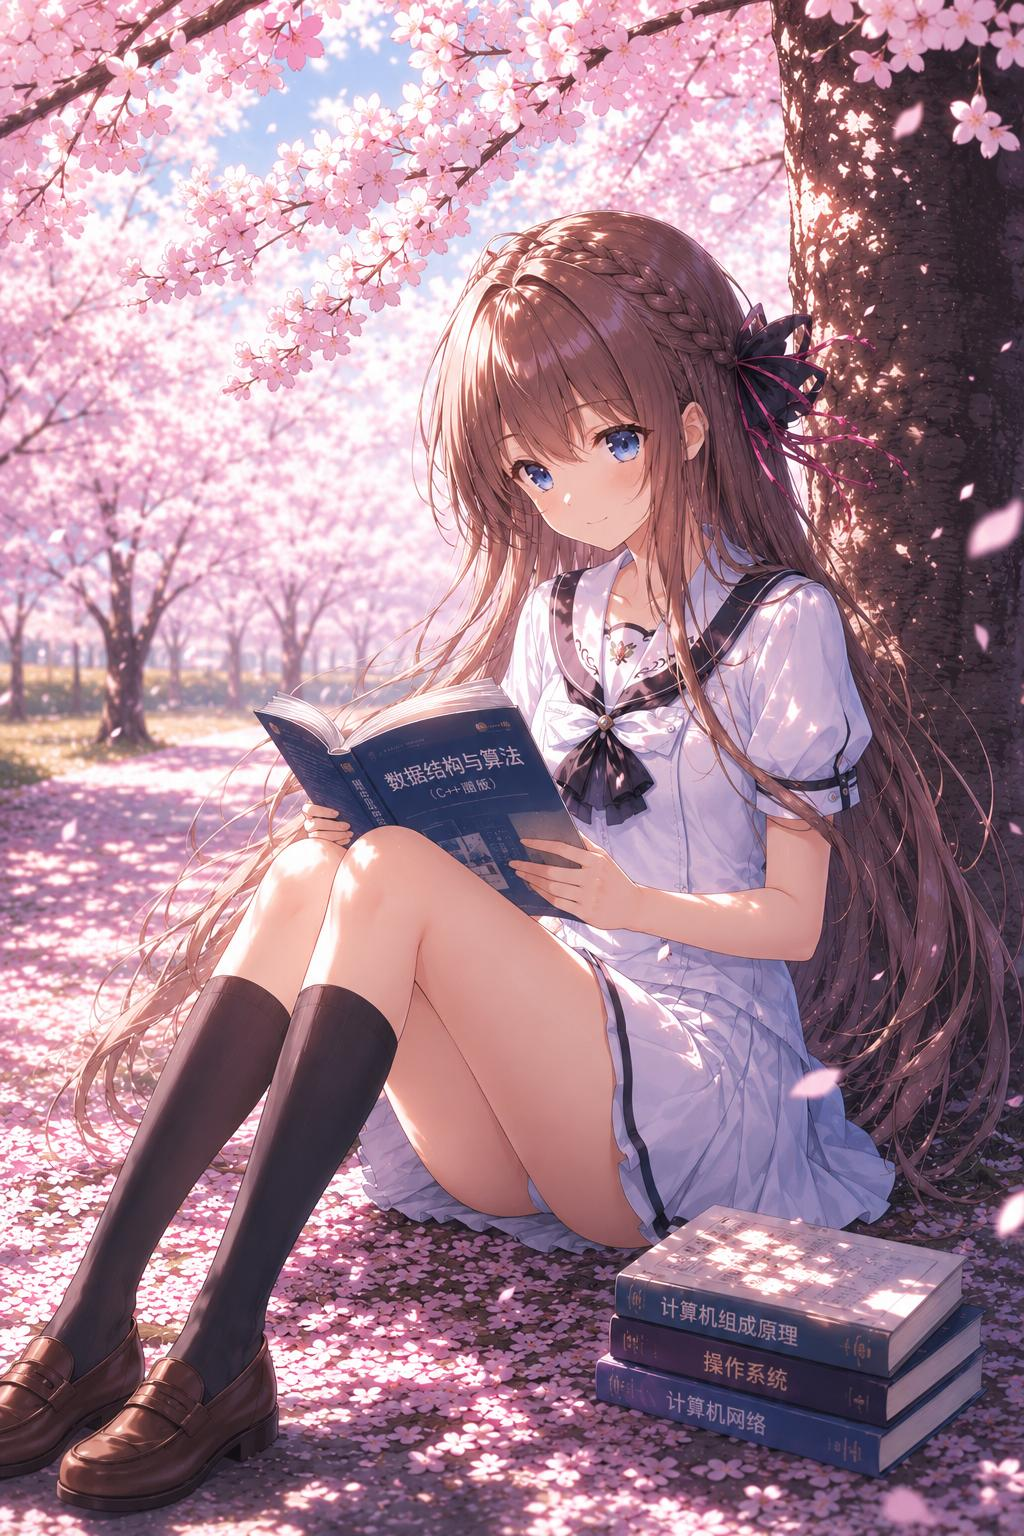
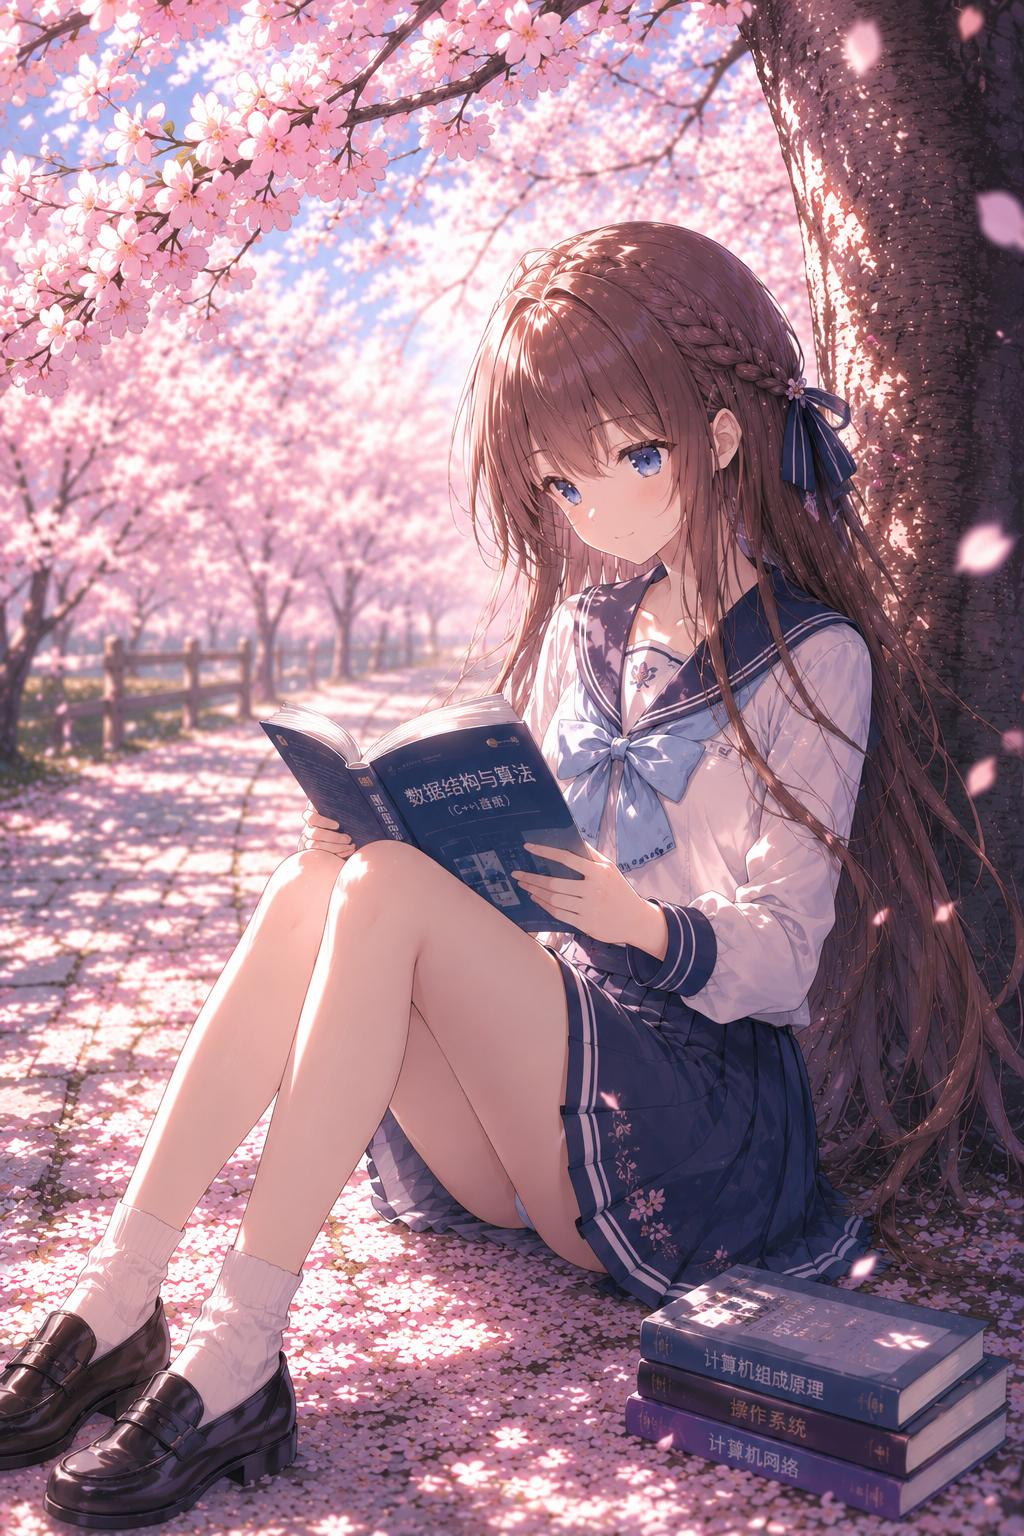
docs: localize project guides

diff --git a/themes/spring/README.md b/themes/spring/README.md
@@ -1,41 +1,35 @@
-# Spring Theme
+# Spring 主题
 
-`spring` is SknBlog's current visual theme. It packages the shared design
-tokens, code palette, background treatment, falling-petal component, and the
-assets those files require.
+`spring` 是 SknBlog 当前使用的视觉主题。它包含共享设计变量、代码配色、背景处理、樱花飘落组件，以及这些功能所需的静态资源。
 
-## Structure
+## 目录结构
 
 ```text
 themes/spring/
-  index.css                 Theme CSS entry point
-  theme.ts                  Public asset paths and theme identity
-  theme.json                Machine-readable manifest
+  index.css                 主题 CSS 入口
+  theme.ts                  公共资源路径与主题标识
+  theme.json                机器可读的主题清单
   components/sakura-fall.tsx
-  styles/                   Tokens, code palette, component CSS, responsive rules
+  styles/                   设计变量、代码配色、组件 CSS 与响应式规则
 
 public/themes/spring/
-  background.jpg            Repeating page background
-  sknblog.jpg               Shared page header image
-  logo.svg                  Site logo
-  fonts/fira-code/          ASCII code font files
+  background.jpg            重复平铺的页面背景
+  sknblog.jpg               全站共享的横幅图片
+  logo.svg                  网站 Logo
+  fonts/fira-code/          ASCII 范围的代码字体文件
 ```
 
-Article covers under `public/images/posts/` are content assets, not theme
-assets. Keep them outside this package. React page components remain in
-`components/`; they provide the site structure and content wiring, while all
-visual CSS is owned by this theme.
+`public/images/posts/` 下的文章封面属于内容资源，不属于主题资源，应继续放在主题目录之外。React 页面组件仍位于 `components/`，负责页面结构与内容连接；所有视觉 CSS 由本主题管理。
 
-## Enable It In This Project
+## 在本项目启用
 
-`app/globals.css` imports the theme once:
+`app/globals.css` 只需导入一次主题入口：
 
 ```css
 @import "../themes/spring/index.css";
 ```
 
-For the petal layer, render the theme component through the compatibility
-export in `components/sakura-fall.tsx`:
+需要樱花图层时，通过 `components/sakura-fall.tsx` 的兼容导出渲染主题组件：
 
 ```tsx
 import { SakuraFall } from "@/components/sakura-fall";
@@ -46,17 +40,14 @@ import { SakuraFall } from "@/components/sakura-fall";
 </main>
 ```
 
-Use `SPRING_ASSETS` from `themes/spring/theme.ts` for logo, hero, and fallback
-image paths. This prevents future pages from hard-coding old asset locations.
+Logo、横幅与回退图片路径应使用 `themes/spring/theme.ts` 的 `SPRING_ASSETS`。这样新页面不会硬编码旧资源路径。
 
-## Move It To Another Next.js Site
+## 迁移到其他 Next.js 网站
 
-1. Copy `themes/spring/` into the new repository.
-2. Copy `public/themes/spring/` into the new repository.
-3. Import `themes/spring/index.css` from the new root layout's global CSS.
-4. Copy the `SakuraFall` component or remove its CSS import if petals are not needed.
-5. Ensure the new site uses the same page root classes, or replace the root
-   selectors in `styles/site-background.css` and `styles/sakura-fall.css`.
+1. 将 `themes/spring/` 复制到新仓库。
+2. 将 `public/themes/spring/` 复制到新仓库。
+3. 在新项目根布局的全局 CSS 中导入 `themes/spring/index.css`。
+4. 复制 `SakuraFall` 组件；若不需要花瓣，则删除对应 CSS 导入。
+5. 确保新网站使用相同的页面根类名，或改写 `styles/site-background.css` 与 `styles/sakura-fall.css` 中的根选择器。
 
-The theme assumes a Next.js App Router project and static assets served from
-`public/` at root-relative URLs.
+该主题假定项目使用 Next.js App Router，且静态资源由 `public/` 目录以根相对路径提供。